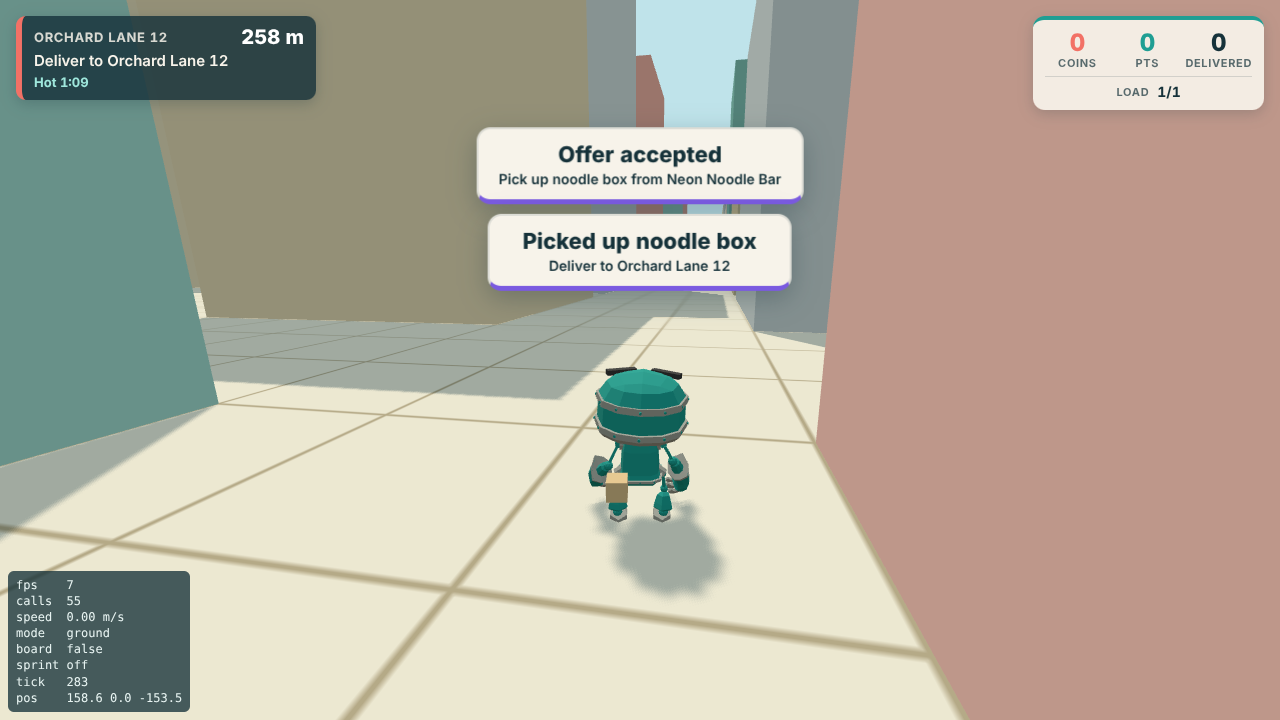
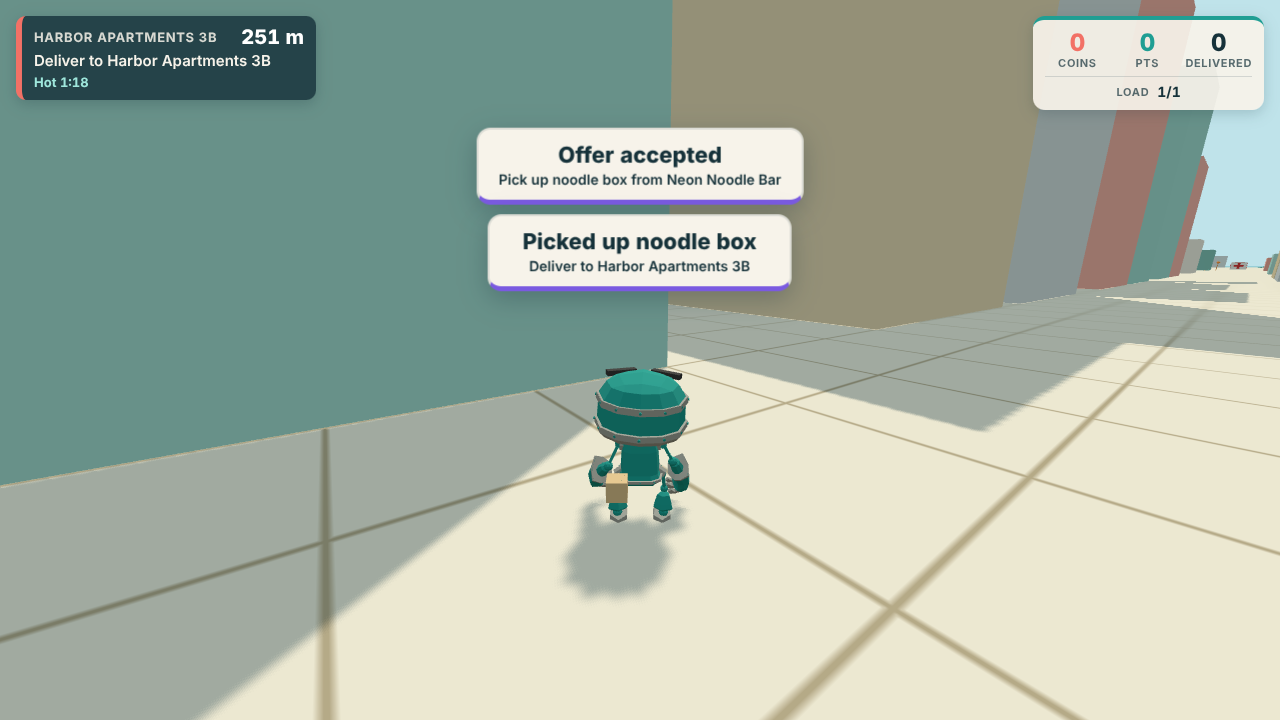
fix: greybox pickup radius 400 m; non-vacuous lockout e2e; legible delivery screenshot
Claude-Session: https://claude.ai/code/session_01FQL89XgGfrk49A2X2Qbbkv

diff --git a/packages/client/e2e/smoke.spec.ts b/packages/client/e2e/smoke.spec.ts
@@ -340,6 +340,12 @@ const advanceUntilOffer = (page: Page, maxSeconds: number): Promise<number> =>
     [maxSeconds, TICK_RATE] as const,
   );
 
+/** Hides the ?debug overlay (F3) so the SP3 playtest shots don't show headless fps. */
+async function hideOverlay(page: Page): Promise<void> {
+  await page.keyboard.press('F3');
+  await expect(page.locator('.debug-overlay')).toBeHidden();
+}
+
 /** Waits for an offer and accepts it with Y; returns the accepted order id. */
 async function acceptWithY(page: Page): Promise<string> {
   expect(await advanceUntilOffer(page, 15)).toBeGreaterThanOrEqual(0);
@@ -360,6 +366,7 @@ async function standAt(page: Page, poiId: string): Promise<void> {
 test('spawns at a hospital inside its safe zone', async ({ page }) => {
   const errors = await boot(page);
   await page.waitForFunction(() => window.__dm?.player().mode === 'ground');
+  await hideOverlay(page);
   const { hospitals, zone, pos } = await page.evaluate(() => ({
     hospitals: window.__dm!.hospitals(),
     zone: window.__dm!.safeZone(),
@@ -392,20 +399,48 @@ test('an offer appears within 15 s of sim time and Y accepts it', async ({ page 
 test('teleport to the pickup then the dropoff completes the order with points', async ({ page }) => {
   const errors = await boot(page, SEED);
   await page.waitForFunction(() => window.__dm?.player().mode === 'ground');
+  await hideOverlay(page);
   await acceptWithY(page);
   const order = await page.evaluate(() => window.__dm!.active()[0]!.order);
   await standAt(page, order.pickupPoiId);
   await page.evaluate(() => window.__dm!.advance(15));
   expect(await page.evaluate(() => window.__dm!.active()[0]?.pickedUpAt ?? null)).not.toBeNull();
-  await standAt(page, order.dropoffPoiId);
-  await page.evaluate(() => window.__dm!.advance(15));
+  // Let the "accepted" and "picked up" popups expire (wall-clock, 3.5 s) so the delivery popup stands alone in the shot.
+  await expect(page.locator('.popup')).toHaveCount(0, { timeout: 10_000 });
+  // Teleport 7 m short of the dropoff (on the pickup's side), facing it, then walk in: the chase camera frames the
+  // courier in front of the marker rather than inside it.
+  await page.evaluate(([drop, pick]) => {
+    const t = window.__dm!.poiPosition(drop);
+    const p = window.__dm!.poiPosition(pick);
+    const d = Math.hypot(p.x - t.x, p.z - t.z);
+    const feet = { x: t.x + ((p.x - t.x) / d) * 7, y: t.y, z: t.z + ((p.z - t.z) / d) * 7 };
+    window.__dm!.viewpoint(feet, { x: t.x, y: t.y + 1.2, z: t.z });
+  }, [order.dropoffPoiId, order.pickupPoiId] as const);
+  await page.keyboard.down('KeyW');
+  const walked = await page.evaluate(
+    ([rate]) => {
+      for (let i = 0; i < 5 * rate; i++) {
+        window.__dm!.advance(1);
+        if (window.__dm!.totals().deliveries > 0) return i / rate;
+      }
+      return -1;
+    },
+    [TICK_RATE] as const,
+  );
+  await page.keyboard.up('KeyW');
+  console.log(`walked into the dropoff zone in ${walked.toFixed(2)} s`);
+  expect(walked).toBeGreaterThanOrEqual(0);
   const totals = await page.evaluate(() => window.__dm!.totals());
   console.log(`delivered ${order.kind} ${order.id}: ${totals.points} points, ${totals.coins} coins`);
   expect(totals.deliveries).toBe(1);
   expect(totals.points).toBeGreaterThan(0);
   expect(await page.evaluate(() => window.__dm!.active().length)).toBe(0);
-  await expect(page.locator('.popup-title', { hasText: 'Delivered!' })).toBeVisible();
+  const delivered = page.locator('.popup', { hasText: 'Delivered!' });
+  await expect(delivered).toBeVisible();
+  await expect(page.locator('.popup')).toHaveCount(1);
   await waitTicks(page, 4);
+  // Fully faded in (the popup animation's first 8 %).
+  await expect.poll(() => delivered.evaluate((e) => getComputedStyle(e).opacity), { timeout: 3_000 }).toBe('1');
   await page.screenshot({ path: `${sp3}sp3-delivered.png` });
   expect(errors).toEqual([]);
 });
@@ -414,22 +449,28 @@ test('cancelling starts the lockout and no offer appears for 45 s', async ({ pag
   const errors = await boot(page, SEED);
   await page.waitForFunction(() => window.__dm?.player().mode === 'ground');
   const id = await acceptWithY(page);
-  expect(await page.evaluate((o) => window.__dm!.cancel(o), id)).toBe('ok');
+  // The lockout runs from the sim time of the cancel; the render loop keeps ticking between evaluate calls, so the
+  // window below is anchored to the cancel's tick, not to when the check starts.
+  const cancel = await page.evaluate(
+    (o) => ({ result: window.__dm!.cancel(o), tick: window.__dm!.tick, offers: window.__dm!.offers().map((x) => x.order.id) }),
+    id,
+  );
+  expect(cancel.result).toBe('ok');
   await expect(page.locator('.popup-title', { hasText: 'Order cancelled' })).toBeVisible();
   await expect(page.locator('.hud-lockout')).toBeVisible();
   const r = await page.evaluate(
-    ([rate]) => {
-      const seen = new Set(window.__dm!.offers().map((o) => o.order.id));
-      let fresh = 0;
-      // Just short of 45 s: nothing new may arrive.
-      for (let i = 0; i < 45 * rate - 2; i++) {
+    ([rate, t0, before]) => {
+      // Offers already on the phone at the cancel may stay until they expire; anything else is new.
+      const seen = new Set(before);
+      const fresh = new Set<string>(window.__dm!.offers().filter((o) => !seen.has(o.order.id)).map((o) => o.order.id));
+      // The rest of the 45 s lockout, tick by tick (offers live 20 s, so one that came while the render loop ran the
+      // first ticks would still be on the phone above).
+      while (window.__dm!.tick < t0 + 45 * rate) {
         window.__dm!.advance(1);
-        for (const o of window.__dm!.offers()) if (!seen.has(o.order.id)) fresh++;
+        for (const o of window.__dm!.offers()) if (!seen.has(o.order.id)) fresh.add(o.order.id);
       }
-      // After the lockout, offers resume. The downtown spawn has a single food pickup in range and the cancelled order
-      // used it (reuse rule: 180 s), so resume is checked at the suburbs hospital, whose pickups are all unused.
-      const h = window.__dm!.hospitals().find((x) => x.id === 'suburbs-hospital')!;
-      window.__dm!.viewpoint(h.spawn, { x: h.center.x, y: h.center.y + 1.6, z: h.center.z });
+      const lockedTicks = window.__dm!.tick - t0;
+      // Not vacuous: at the same spot offers do arrive once the lockout is over (within one arrival interval).
       let resumedAfter = -1;
       for (let i = 0; i < 20 * rate; i++) {
         window.__dm!.advance(1);
@@ -438,11 +479,12 @@ test('cancelling starts the lockout and no offer appears for 45 s', async ({ pag
           break;
         }
       }
-      return { fresh, resumedAfter };
+      return { fresh: fresh.size, lockedTicks, resumedAfter };
     },
-    [TICK_RATE] as const,
+    [TICK_RATE, cancel.tick, cancel.offers] as const,
   );
-  console.log(`lockout: ${r.fresh} new offers during it, offers resumed ${r.resumedAfter.toFixed(2)} s after`);
+  console.log(`lockout: ${r.fresh} new offers in its ${r.lockedTicks} ticks, offers resumed ${r.resumedAfter.toFixed(2)} s after`);
+  expect(r.lockedTicks).toBe(45 * TICK_RATE);
   expect(r.fresh).toBe(0);
   expect(r.resumedAfter).toBeGreaterThanOrEqual(0);
   await expect(page.locator('.hud-lockout')).toBeHidden();
@@ -519,6 +561,7 @@ test('dev panel capacity preset switches the tier and reverts when the switch is
 test('phone: Tab opens Orders, Map and Wallet render; Esc closes', async ({ page }) => {
   const errors = await boot(page, SEED);
   await page.waitForFunction(() => window.__dm?.player().mode === 'ground');
+  await hideOverlay(page);
   expect(await advanceUntilOffer(page, 15)).toBeGreaterThanOrEqual(0);
   await page.keyboard.press('Tab');
   await page.waitForFunction(() => window.__dm!.phoneOpen());
@@ -564,6 +607,7 @@ test('phone: Tab opens Orders, Map and Wallet render; Esc closes', async ({ page
 test('HUD screenshot with an active order', async ({ page }) => {
   const errors = await boot(page, SEED);
   await page.waitForFunction(() => window.__dm?.player().mode === 'ground');
+  await hideOverlay(page);
   await acceptWithY(page);
   // Picked up, so the HUD shows the order's timer and the beam leads to the dropoff.
   const order = await page.evaluate(() => window.__dm!.active()[0]!.order);

diff --git a/packages/shared/test/world/greyboxContent.test.ts b/packages/shared/test/world/greyboxContent.test.ts
@@ -2,6 +2,7 @@ import { beforeAll, describe, expect, it } from 'vitest';
 import greyboxJson from '../../../../map/greybox.json';
 import { movementConfig as cfg } from '../../src/config';
 import { vec3, type Vec3 } from '../../src/math/vec3';
+import { streetDistance } from '../../src/world/distance';
 import { expandGreybox } from '../../src/world/greybox';
 import type { District, GreyboxSource, MapData, Rect, Solid } from '../../src/world/mapTypes';
 import { createPhysicsWorld, initRapier, type PhysicsWorld, type Rapier } from '../../src/world/physicsWorld';
@@ -108,8 +109,17 @@ describe('greybox city: hospitals', () => {
     expect(map.orderRules).toEqual({
       bands: { shortMax: 150, mediumMax: 350 },
       foodDropoff: { min: 80, max: 400 },
-      maxPickupDistance: 250,
+      maxPickupDistance: 400,
     });
+  });
+
+  it('has at least 2 food pickups within maxPickupDistance of every hospital spawn (one used pickup never starves it)', () => {
+    for (const h of map.hospitals) {
+      const near = map.pois.filter(
+        (p) => p.roles.includes('foodPickup') && streetDistance(h.spawn, p.position) <= map.orderRules.maxPickupDistance,
+      );
+      expect(near.length, h.id).toBeGreaterThanOrEqual(2);
+    }
   });
 });
 
